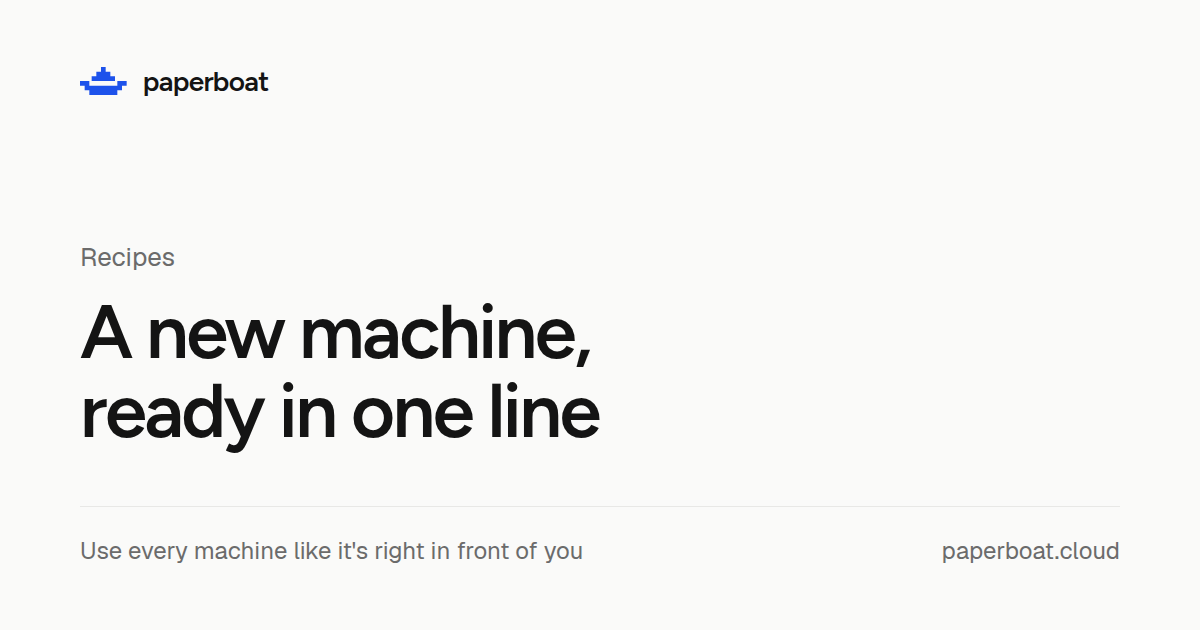
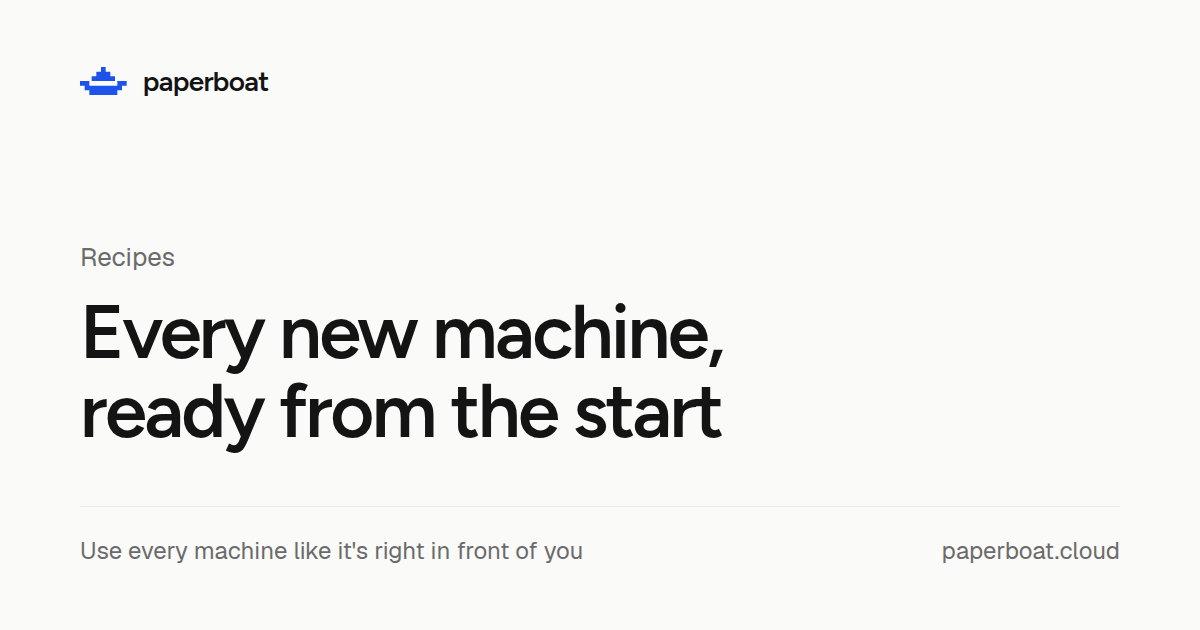
marketing: recipes are for any number of machines and sandboxes; pricing says bandwidth, not "full speed"
Recipes were pitched as setting up one CI runner. They set up one machine or hundreds with one
command, or a fresh sandbox every time (development, agents, pull request reviews, tests), set up
your way and reachable from the first second. Recipes page, home section, feature line, the
comparison row and the ENV vault example now say that.

Pricing used "Full speed a month" and "full-speed traffic". Plans now read Bandwidth 5 GB/mo, After
that 512 kbit/s (1 Mbit/s paid); the pricing table, FAQ, comparison lines and team copy say
bandwidth.

Tests: bun run build; check:site 41 pages, 180 commands, 0 problems; share image for Recipes
regenerated.

Changed region(s): [[0.0617, 0.4825, 0.6167, 0.6032], [0.2158, 0.6032, 0.6167, 0.6937]]

diff --git a/marketing/src/pricing-data.ts b/marketing/src/pricing-data.ts
@@ -1,6 +1,6 @@
 /**
  * What the pricing page compares (user pricing decisions 2026-10-22). Free and Pro have everything
- * for personal use and differ only in full-speed traffic, which comes from `plans` in site.ts; Team adds people.
+ * for personal use and differ only in bandwidth, which comes from `plans` in site.ts; Team adds people.
  */
 import { auditRetention, plans, publicTcp, speeds, ssoMinSeats, teamTrial, topUp } from "./site"
 
@@ -16,9 +16,9 @@ export const featureGroups: { title: string; rows: { feature: string; cells: [Pl
   {
     title: "Limits",
     rows: [
-      { feature: "Our edges (previews, tunnels): full speed a month", cells: [plans[0].bandwidth, plans[1].bandwidth, plans[2].bandwidth] },
-      { feature: "Our relays: full speed a month", cells: [`${speeds.relay} for ${plans[0].bandwidth}`, `${speeds.relay} for ${plans[1].bandwidth}`, `${speeds.relay} for ${plans[2].bandwidth}`] },
-      { feature: "After that, until the month resets", cells: [speeds.after[0], speeds.after[1], speeds.after[2]] },
+      { feature: "Edge bandwidth (previews, tunnels)", cells: [`${plans[0].bandwidth}/mo`, `${plans[1].bandwidth}/mo`, `${plans[2].bandwidth.replace(" a seat", "")}/mo a seat`] },
+      { feature: "Relay bandwidth", cells: [`${plans[0].bandwidth}/mo at ${speeds.relay}`, `${plans[1].bandwidth}/mo at ${speeds.relay}`, `${plans[2].bandwidth.replace(" a seat", "")}/mo a seat at ${speeds.relay}`] },
+      { feature: "After that", cells: [speeds.after[0], speeds.after[1], speeds.after[2]] },
       { feature: "Browser terminals", cells: ["Never slowed", "Never slowed", "Never slowed"] },
       { feature: "Your own edges and relays", cells: ["Unlimited", "Unlimited", "Unlimited"] },
       { feature: "Direct traffic between your machines", cells: ["Unlimited", "Unlimited", "Unlimited"] },
@@ -27,7 +27,7 @@ export const featureGroups: { title: string; rows: { feature: string; cells: [Pl
       { feature: "Public raw-TCP tunnel addresses", cells: [publicTcp[0], publicTcp[1], publicTcp[2]] },
       { feature: "Terminals open in the web console at once", cells: limitCells("browserTerminals") },
       { feature: "Terminals from the pb command", cells: ["Unlimited", "Unlimited", "Unlimited"] },
-      { feature: `Extra full-speed traffic, ${topUp.price} per ${topUp.size}`, cells: [false, true, true] },
+      { feature: `Extra bandwidth, ${topUp.price} per ${topUp.size}`, cells: [false, true, true] },
     ],
   },
   {
@@ -76,12 +76,12 @@ export const faq = [
     a: "Faster traffic through servers we run: edges, which serve your previews and tunnels, and relays, which carry traffic when two machines can't connect directly. Traffic that goes straight between your machines is never counted, on any plan.",
   },
   {
-    q: "What happens after the full-speed amount?",
-    a: `Nothing stops. Traffic through our edges and relays is slowed to ${speeds.after[0]} on Free, or ${speeds.after[1]} on Pro and Team, until the month resets. Browser terminals and direct traffic are never slowed. On a paid plan you can add ${topUp.size} at full speed for ${topUp.price}.`,
+    q: "What happens when I use all my bandwidth?",
+    a: `Nothing stops. Traffic through our edges and relays is slowed to ${speeds.after[0]} on Free, or ${speeds.after[1]} on Pro and Team, until the month resets. Browser terminals and direct traffic are never slowed. On a paid plan you can add ${topUp.size} for ${topUp.price}.`,
   },
   {
     q: "Are features locked behind a paid plan?",
-    a: `No. Free and Pro have the same features and differ in limits and full-speed traffic. Team adds what a company needs: members, roles and audit log export, and single sign-on and directory sync for teams of ${ssoMinSeats} seats or more.`,
+    a: `No. Free and Pro have the same features and differ in limits and bandwidth. Team adds what a company needs: members, roles and audit log export, and single sign-on and directory sync for teams of ${ssoMinSeats} seats or more.`,
   },
   {
     q: "Do I need Team to share with someone?",

diff --git a/marketing/src/compare-data.ts b/marketing/src/compare-data.ts
@@ -130,7 +130,7 @@ export const sections: Section[] = [
     id: "setup",
     title: "New machines",
     sentence: "Bring a new machine in, set up and ready.",
-    rows: [{ id: "setup_one_line", label: "Set up a machine in one command" }],
+    rows: [{ id: "setup_one_line", label: "Set up any number of machines in one command" }],
   },
   {
     id: "encryption",
@@ -221,13 +221,13 @@ export const paperboat = {
     api_tokens: ["Yes, scoped API tokens that expire"],
     selfhost: ["Relays and tunnel servers"],
     platforms: ["Linux, macOS and Windows"],
-    pricing_model: ["By full-speed traffic through our servers; Team per seat"],
-    free_tier: ["Every feature; 5 GB at full speed, then slowed, never cut off"],
+    pricing_model: ["By bandwidth through our servers; Team per seat"],
+    free_tier: ["Every feature, 5 GB/mo, never cut off"],
   }),
   pricing: [
-    "Free: $0, every feature for personal use, 5 GB at full speed a month, then 512 kbit/s",
-    "Pro: $8 a month or $80 a year, 100 GB at full speed, then 1 Mbit/s",
-    "Team: $15 per seat a month or $150 a year, 100 GB per seat at full speed; 14-day trial",
+    "Free: $0, every feature for personal use, 5 GB/mo, then 512 kbit/s",
+    "Pro: $8 a month or $80 a year, 100 GB/mo, then 1 Mbit/s",
+    "Team: $15 per seat a month or $150 a year, 100 GB/mo per seat; 14-day trial",
     "Direct traffic between your machines is never counted",
   ],
 }
@@ -387,7 +387,7 @@ const vscodeSources = {
 /** Paperboat's side of the differences that recur, written once. */
 const ours = {
   extras:
-    "Paperboat records its terminals on every plan, encrypted on the machine, and plays them back in the console or your terminal. A recipe sets up a new machine in one command: its access, secrets, config and previews.",
+    "Paperboat records its terminals on every plan, encrypted on the machine, and plays them back in the console or your terminal. A recipe sets up one machine or hundreds with one command, with their access, secrets, config and previews, reachable from the start.",
   terminals:
     "Paperboat terminals run on the machine and keep running when your laptop sleeps or the network drops. When you come back, from the same computer, another one or a browser, you see what happened while you were away, and you can let someone watch or type along.",
   previews:
@@ -605,7 +605,7 @@ export const products: Product[] = [
         title: "How you pay",
         body: [
           "ngrok plans add charges per user, per active domain hour and for data and requests beyond what is included.",
-          "Paperboat plans differ only in how much traffic runs at full speed through its edges and relays, and nothing is ever cut off. Previews, tunnels and domains have no separate charges, and direct traffic between your machines is free.",
+          "Paperboat plans differ only in bandwidth through its edges and relays, and nothing is ever cut off. Previews, tunnels and domains have no separate charges, and direct traffic between your machines is free.",
         ],
       },
     ],

diff --git a/marketing/src/site.ts b/marketing/src/site.ts
@@ -58,7 +58,7 @@ export const plans = [
     machines: "1,000",
     publications: "1,000",
     browserTerminals: "100",
-    detail: "Everything in Free, with more full-speed traffic. Add 100 GB any time.",
+    detail: "Everything in Free, with more bandwidth. Add 100 GB any time.",
   },
   {
     name: "Team",
@@ -74,13 +74,13 @@ export const plans = [
 ] as const
 
 /**
- * Traffic through our servers is never cut off (user decision 2026-11-19): after the plan's
- * full-speed amount it is slowed until the month resets. Relays also run at a top speed.
+ * Traffic through our servers is never cut off (user decision 2026-11-19): once the plan's
+ * bandwidth is used it is slowed until the month resets. Relays also have a top speed.
  */
 export const speeds = {
-  /** After the full-speed amount: Free, Pro, Team. */
+  /** Once the plan's bandwidth is used: Free, Pro, Team. */
   after: ["512 kbit/s", "1 Mbit/s", "1 Mbit/s"],
-  /** Relayed traffic within the full-speed amount, every plan. */
+  /** Relayed traffic before that, every plan. */
   relay: "10 Mbit/s",
 } as const
 

diff --git a/marketing/src/features.ts b/marketing/src/features.ts
@@ -107,7 +107,7 @@ export const features: Feature[] = [
     slug: "recipes",
     icon: "list-checks",
     name: "Recipes",
-    line: "Set up a new machine with one command: paired, tagged, ready.",
+    line: "Set up one machine or hundreds with one command, ready from the start.",
     command: "pb recipe create -f ci.toml",
     group: "Set up and share",
   },
